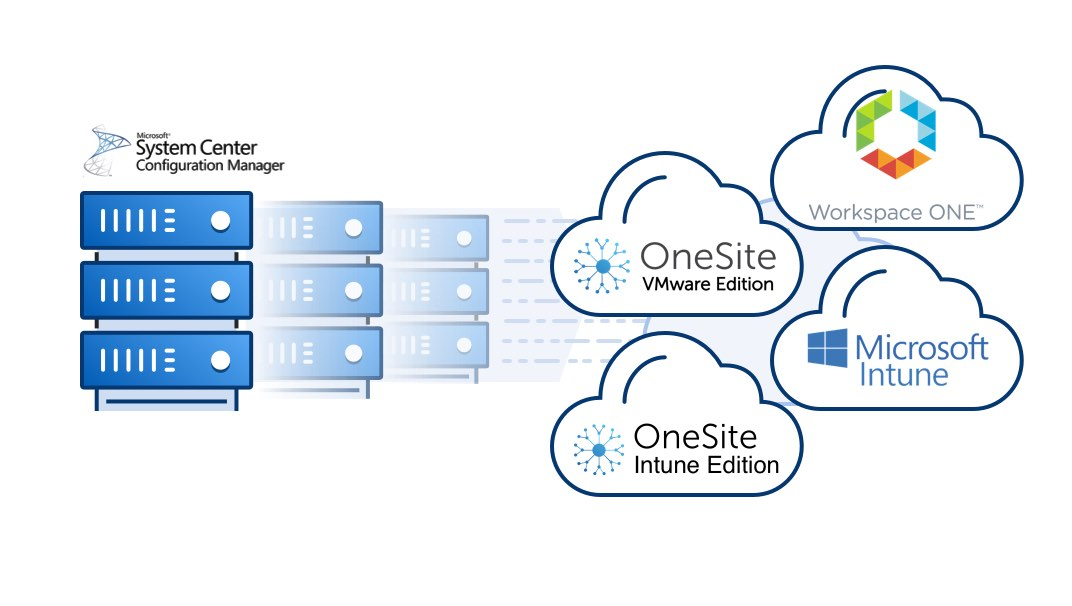
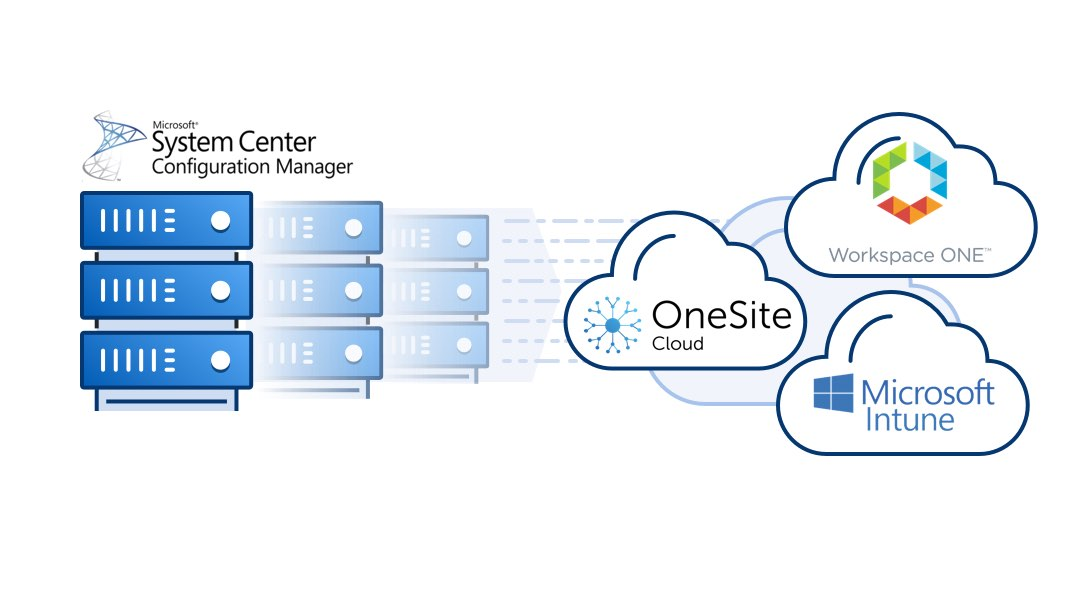
updating onecloud graphic

diff --git a/_site/partners/index.html b/_site/partners/index.html
@@ -53,7 +53,7 @@ window.cookieconsent.initialise({
     <meta property="og:type" content="website" />
     <title>Partners in Peer-to-peer Solutions for Enterprise IT & Security - Adaptiva</title>
     <link rel="icon" href="/assets/img/favicon.ico" type="image/x-icon" />
-    <link rel="stylesheet" href="/assets/css/adaptiva.css?v=9e6f1d305a5cfc4fe12a1e3aa8290e8e3b1159ab">
+    <link rel="stylesheet" href="/assets/css/adaptiva.css?v=3662c0bb6dbfcf52cc126323070180eb46f80a8b">
     <link rel="manifest" href="/manifest.json">
   </head>
   <body class="partners">

diff --git a/_site/products/index.html b/_site/products/index.html
@@ -53,7 +53,7 @@ window.cookieconsent.initialise({
     <meta property="og:type" content="website" />
     <title>Endpoint Management & Security Products for Enterprise IT - Adaptiva</title>
     <link rel="icon" href="/assets/img/favicon.ico" type="image/x-icon" />
-    <link rel="stylesheet" href="/assets/css/adaptiva.css?v=9e6f1d305a5cfc4fe12a1e3aa8290e8e3b1159ab">
+    <link rel="stylesheet" href="/assets/css/adaptiva.css?v=3662c0bb6dbfcf52cc126323070180eb46f80a8b">
     <link rel="manifest" href="/manifest.json">
   </head>
   <body class="products">

diff --git a/_site/products/onesite/index.html b/_site/products/onesite/index.html
@@ -53,7 +53,7 @@ window.cookieconsent.initialise({
     <meta property="og:type" content="website" />
     <title>Peer-to-Peer Software Distribution with ConfigMgr - Adaptiva OneSite</title>
     <link rel="icon" href="/assets/img/favicon.ico" type="image/x-icon" />
-    <link rel="stylesheet" href="/assets/css/adaptiva.css?v=9e6f1d305a5cfc4fe12a1e3aa8290e8e3b1159ab">
+    <link rel="stylesheet" href="/assets/css/adaptiva.css?v=3662c0bb6dbfcf52cc126323070180eb46f80a8b">
     <link rel="manifest" href="/manifest.json">
   </head>
   <body class="onesite">

diff --git a/_site/index.html b/_site/index.html
@@ -53,7 +53,7 @@ window.cookieconsent.initialise({
     <meta property="og:type" content="website" />
     <title>Endpoint Management & Security Solutions for Enterprise IT - Adaptiva</title>
     <link rel="icon" href="/assets/img/favicon.ico" type="image/x-icon" />
-    <link rel="stylesheet" href="/assets/css/adaptiva.css?v=9e6f1d305a5cfc4fe12a1e3aa8290e8e3b1159ab">
+    <link rel="stylesheet" href="/assets/css/adaptiva.css?v=3662c0bb6dbfcf52cc126323070180eb46f80a8b">
     <link rel="manifest" href="/manifest.json">
   </head>
   <body class="home">

diff --git a/_site/about/index.html b/_site/about/index.html
@@ -53,7 +53,7 @@ window.cookieconsent.initialise({
     <meta property="og:type" content="website" />
     <title>Leading Global Provider of Endpoint Managment & Security - Adaptiva</title>
     <link rel="icon" href="/assets/img/favicon.ico" type="image/x-icon" />
-    <link rel="stylesheet" href="/assets/css/adaptiva.css?v=9e6f1d305a5cfc4fe12a1e3aa8290e8e3b1159ab">
+    <link rel="stylesheet" href="/assets/css/adaptiva.css?v=3662c0bb6dbfcf52cc126323070180eb46f80a8b">
     <link rel="manifest" href="/manifest.json">
   </head>
   <body class="about">

diff --git a/_site/products/evolve-vm/index.html b/_site/products/evolve-vm/index.html
@@ -53,7 +53,7 @@ window.cookieconsent.initialise({
     <meta property="og:type" content="website" />
     <title>Endpoint Vulnerability Management - Adaptiva Evolve VM</title>
     <link rel="icon" href="/assets/img/favicon.ico" type="image/x-icon" />
-    <link rel="stylesheet" href="/assets/css/adaptiva.css?v=9e6f1d305a5cfc4fe12a1e3aa8290e8e3b1159ab">
+    <link rel="stylesheet" href="/assets/css/adaptiva.css?v=3662c0bb6dbfcf52cc126323070180eb46f80a8b">
     <link rel="manifest" href="/manifest.json">
   </head>
   <body class="client-health">

diff --git a/_site/videos/2018/2018-02-27-enterprise-roundtable/index.html b/_site/videos/2018/2018-02-27-enterprise-roundtable/index.html
@@ -50,7 +50,7 @@ window.cookieconsent.initialise({
     <meta property="og:type" content="website" />
     <title>Windows 10 Enterprise Security Round Table Webinar - Adaptiva</title>
     <link rel="icon" href="/assets/img/favicon.ico" type="image/x-icon" />
-    <link rel="stylesheet" href="/assets/css/adaptiva.css?v=9e6f1d305a5cfc4fe12a1e3aa8290e8e3b1159ab">
+    <link rel="stylesheet" href="/assets/css/adaptiva.css?v=3662c0bb6dbfcf52cc126323070180eb46f80a8b">
     <link rel="manifest" href="/manifest.json">
   </head>
   <body class="video">

diff --git a/_site/careers/index.html b/_site/careers/index.html
@@ -53,7 +53,7 @@ window.cookieconsent.initialise({
     <meta property="og:type" content="website" />
     <title>Careers in Endpoint Management at Adaptiva - Adaptiva</title>
     <link rel="icon" href="/assets/img/favicon.ico" type="image/x-icon" />
-    <link rel="stylesheet" href="/assets/css/adaptiva.css?v=9e6f1d305a5cfc4fe12a1e3aa8290e8e3b1159ab">
+    <link rel="stylesheet" href="/assets/css/adaptiva.css?v=3662c0bb6dbfcf52cc126323070180eb46f80a8b">
     <link rel="manifest" href="/manifest.json">
   </head>
   <body class="careers">

diff --git a/_site/videos/2018/2018-04-27-get-smart-on-windows-10-app-security/index.html b/_site/videos/2018/2018-04-27-get-smart-on-windows-10-app-security/index.html
@@ -50,7 +50,7 @@ window.cookieconsent.initialise({
     <meta property="og:type" content="website" />
     <title>Get Smart on Windows 10 Application Security - Adaptiva</title>
     <link rel="icon" href="/assets/img/favicon.ico" type="image/x-icon" />
-    <link rel="stylesheet" href="/assets/css/adaptiva.css?v=9e6f1d305a5cfc4fe12a1e3aa8290e8e3b1159ab">
+    <link rel="stylesheet" href="/assets/css/adaptiva.css?v=3662c0bb6dbfcf52cc126323070180eb46f80a8b">
     <link rel="manifest" href="/manifest.json">
   </head>
   <body class="video">

diff --git a/_site/videos/2018/2018-06-26-windows-10-osd-best-practices/index.html b/_site/videos/2018/2018-06-26-windows-10-osd-best-practices/index.html
@@ -50,7 +50,7 @@ window.cookieconsent.initialise({
     <meta property="og:type" content="website" />
     <title>Windows 10 OSD Best Practices with ConfigMgr - Adaptiva</title>
     <link rel="icon" href="/assets/img/favicon.ico" type="image/x-icon" />
-    <link rel="stylesheet" href="/assets/css/adaptiva.css?v=9e6f1d305a5cfc4fe12a1e3aa8290e8e3b1159ab">
+    <link rel="stylesheet" href="/assets/css/adaptiva.css?v=3662c0bb6dbfcf52cc126323070180eb46f80a8b">
     <link rel="manifest" href="/manifest.json">
   </head>
   <body class="video">

diff --git a/_site/careers/apac-support-resource/index.html b/_site/careers/apac-support-resource/index.html
@@ -53,7 +53,7 @@ window.cookieconsent.initialise({
     <meta property="og:type" content="website" />
     <title>Senior Technical & Pre-Sales Analyst - APAC - Adaptiva</title>
     <link rel="icon" href="/assets/img/favicon.ico" type="image/x-icon" />
-    <link rel="stylesheet" href="/assets/css/adaptiva.css?v=9e6f1d305a5cfc4fe12a1e3aa8290e8e3b1159ab">
+    <link rel="stylesheet" href="/assets/css/adaptiva.css?v=3662c0bb6dbfcf52cc126323070180eb46f80a8b">
     <link rel="manifest" href="/manifest.json">
   </head>
   <body class="job">

diff --git a/_site/videos/2018/2018-01-15-w10ap/index.html b/_site/videos/2018/2018-01-15-w10ap/index.html
@@ -50,7 +50,7 @@ window.cookieconsent.initialise({
     <meta property="og:type" content="website" />
     <title>Windows 10 Accelerator Program Overview - Adaptiva</title>
     <link rel="icon" href="/assets/img/favicon.ico" type="image/x-icon" />
-    <link rel="stylesheet" href="/assets/css/adaptiva.css?v=9e6f1d305a5cfc4fe12a1e3aa8290e8e3b1159ab">
+    <link rel="stylesheet" href="/assets/css/adaptiva.css?v=3662c0bb6dbfcf52cc126323070180eb46f80a8b">
     <link rel="manifest" href="/manifest.json">
   </head>
   <body class="video">
